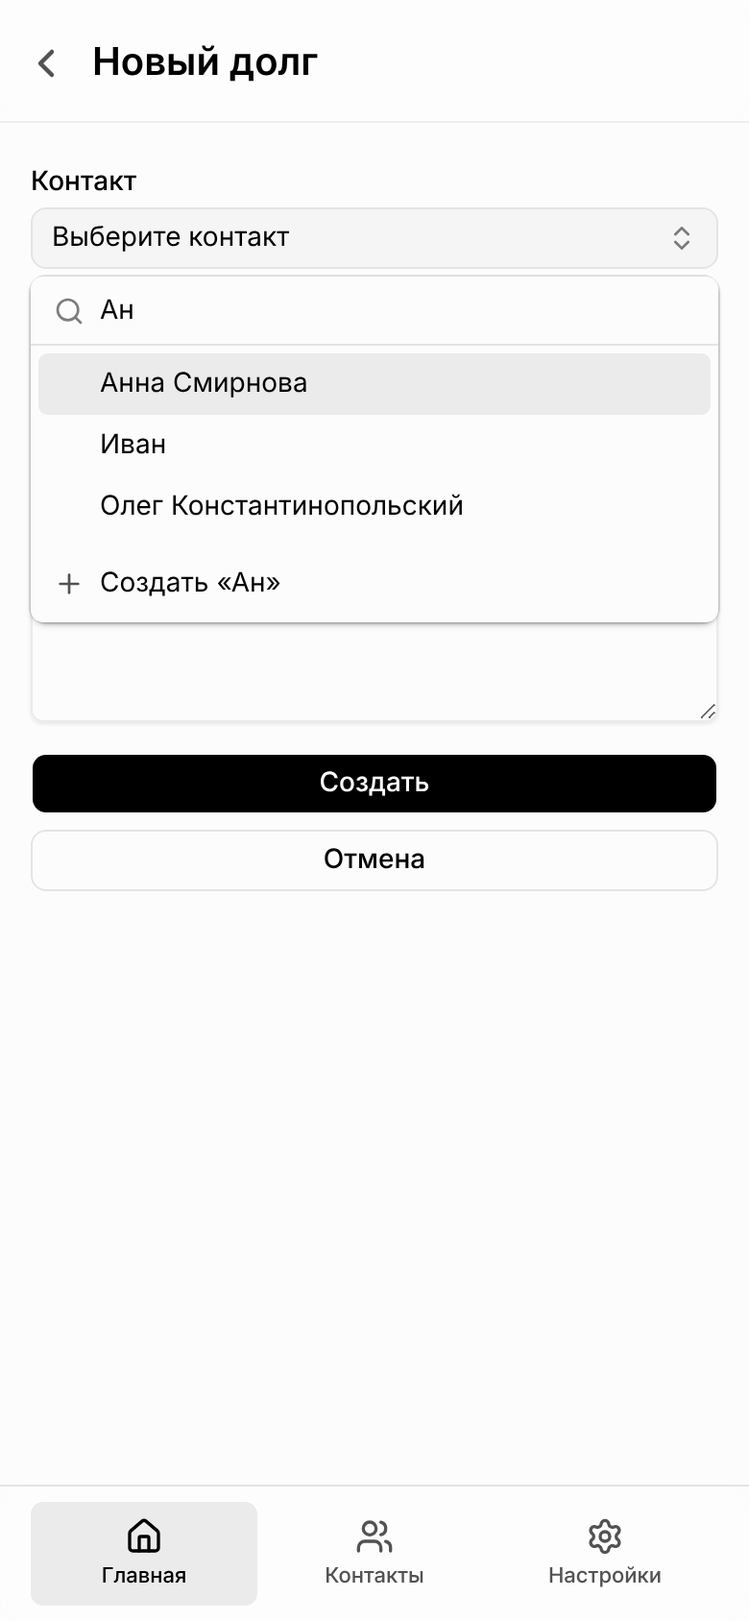
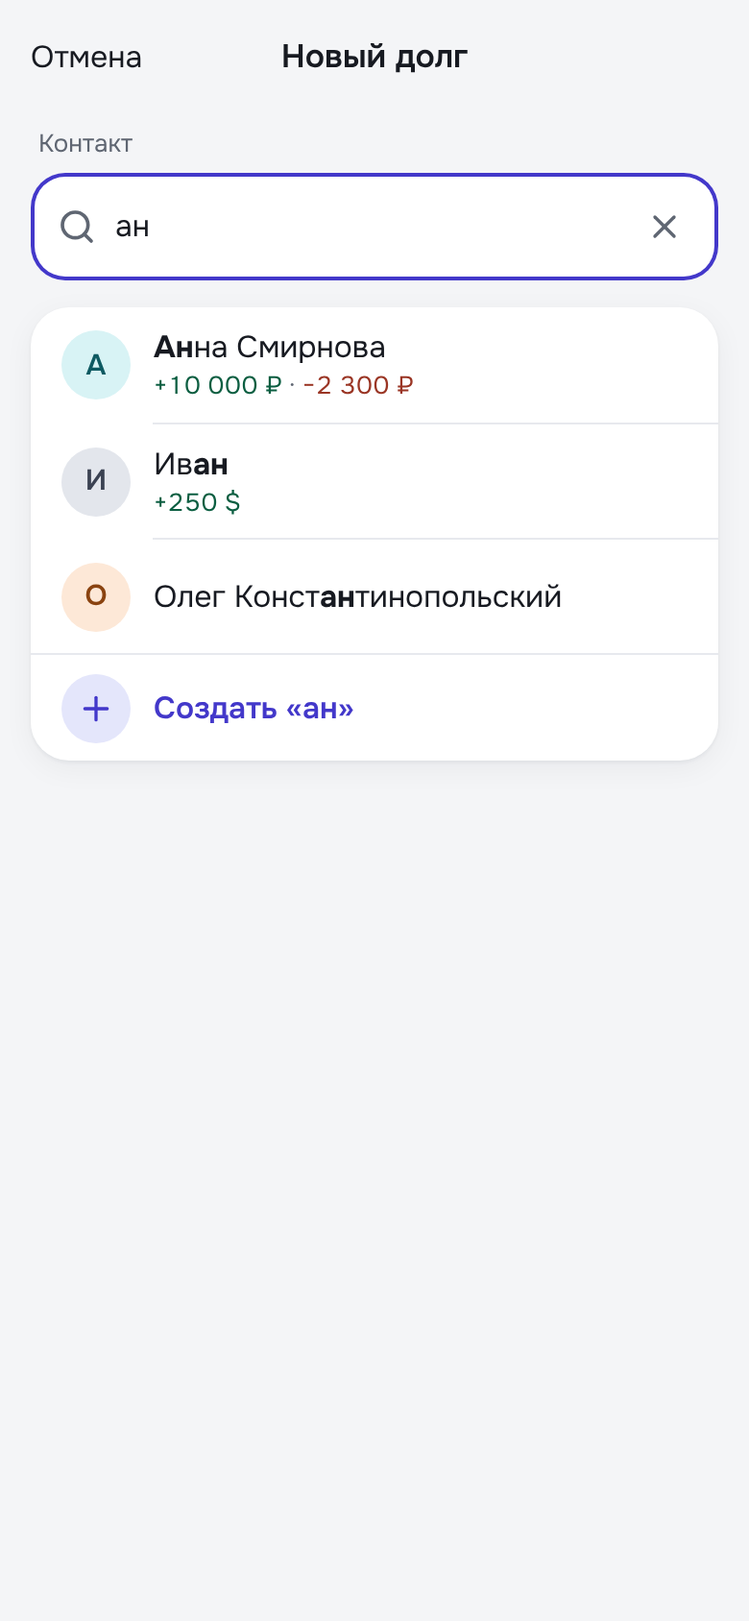
docs: design-system reference, architecture and changelog for the redesign
Adds docs/design-system.md (every token from src/index.css, typography,
radii, shadows, components by FSD layer, contrast pairs, rules), updates
architecture.md and the brief (mockup link, status), moves the old
screenshots to docs/assets/pre-redesign-ui and re-shoots current-ui at
390 and 1440 px in both themes. Ticks the remaining redesign-ui tasks.

Claude-Session: https://claude.ai/code/session_01KNaCuzAVXHxoQjRgPx6VR8

diff --git a/docs/design-system.md b/docs/design-system.md
@@ -1,0 +1,155 @@
+# Дизайн-система «Долги»
+
+Источник — холст «Долги — макеты» (артборд «Дизайн-система»): https://claude.ai/artifact/WvrA2LcghqTn3ZJMCCQM8b. Бриф для дизайнера — [`design-brief.md`](design-brief.md), поведение — `openspec/specs/design-system/spec.md`.
+
+Все значения живут в [`src/index.css`](../src/index.css): переменные в `:root` (светлая тема) и `.dark` (тёмная), маппинг в утилиты Tailwind — в `@theme inline`. В компонентах используются только утилиты по токенам (`bg-owed-to-me-muted`, `rounded-card`, `shadow-card`), а не hex-значения.
+
+## Цвета
+
+Роли shadcn (`background`, `card`, `primary`…) сохранены, к ним добавлены продуктовые роли:
+
+- `owed-to-me*` — «Мне должны» (зелёный), `i-owe*` — «Я должен» (терракотовый). Суффиксы: без суффикса — графика и иконки, `-muted` — подложка, `-strong` — текст на подложке, `-foreground` — текст на заливке;
+- `accent*` — индиго для создания («+», «Создать», ссылки, кольцо фокуса);
+- `destructive*` — необратимые действия и ошибки;
+- `success*`, `warning*` — статусы («Погашен», «Нет курса»);
+- `nav-glass*` — полупрозрачное нижнее меню, `scrim` — затемнение под шторками;
+- `avatar-N` / `avatar-N-foreground` — 8 пар «фон / буква» аватаров. Сохранённый цвет контакта (hex из старой палитры) переводится в номер пары функцией `avatarPaletteIndex` (`shared/config/contact-colors.ts`).
+
+| Токен | Светлая | Тёмная | Tailwind |
+|---|---|---|---|
+| `--background` | `#f4f5f7` | `#0f1115` | `bg-/text-/border-background` |
+| `--foreground` | `#171a21` | `#edeff3` | `bg-/text-/border-foreground` |
+| `--card` | `#ffffff` | `#191c22` | `bg-/text-/border-card` |
+| `--card-foreground` | `#171a21` | `#edeff3` | `bg-/text-/border-card-foreground` |
+| `--popover` | `#ffffff` | `#191c22` | `bg-/text-/border-popover` |
+| `--popover-foreground` | `#171a21` | `#edeff3` | `bg-/text-/border-popover-foreground` |
+| `--primary` | `#171a21` | `#edeff3` | `bg-/text-/border-primary` |
+| `--primary-foreground` | `#ffffff` | `#0f1115` | `bg-/text-/border-primary-foreground` |
+| `--secondary` | `#f4f5f7` | `#262a32` | `bg-/text-/border-secondary` |
+| `--secondary-foreground` | `#171a21` | `#edeff3` | `bg-/text-/border-secondary-foreground` |
+| `--muted` | `#e7e9ee` | `#262a32` | `bg-/text-/border-muted` |
+| `--muted-foreground` | `#5f6672` | `#9aa1ad` | `bg-/text-/border-muted-foreground` |
+| `--accent` | `#4338ca` | `#8b93ff` | `bg-/text-/border-accent` |
+| `--accent-foreground` | `#ffffff` | `#0f1115` | `bg-/text-/border-accent-foreground` |
+| `--destructive` | `#b3261e` | `#f2786d` | `bg-/text-/border-destructive` |
+| `--destructive-foreground` | `#ffffff` | `#0f1115` | `bg-/text-/border-destructive-foreground` |
+| `--destructive-muted` | `#fce8e6` | `#3b1a17` | `bg-/text-/border-destructive-muted` |
+| `--destructive-strong` | `#8c1d18` | `#ffb4ab` | `bg-/text-/border-destructive-strong` |
+| `--border` | `#e7e9ee` | `#2a2e37` | `bg-/text-/border-border` |
+| `--input` | `#e7e9ee` | `#2a2e37` | `bg-/text-/border-input` |
+| `--ring` | `#4338ca` | `#8b93ff` | `bg-/text-/border-ring` |
+| `--owed-to-me` | `#0f7a55` | `#4fd1a0` | `bg-/text-/border-owed-to-me` |
+| `--owed-to-me-foreground` | `#ffffff` | `#0f1115` | `bg-/text-/border-owed-to-me-foreground` |
+| `--owed-to-me-muted` | `#ddf3ea` | `#12302a` | `bg-/text-/border-owed-to-me-muted` |
+| `--owed-to-me-strong` | `#0b5e41` | `#7be3bc` | `bg-/text-/border-owed-to-me-strong` |
+| `--i-owe` | `#b4432f` | `#ff8a70` | `bg-/text-/border-i-owe` |
+| `--i-owe-foreground` | `#ffffff` | `#0f1115` | `bg-/text-/border-i-owe-foreground` |
+| `--i-owe-muted` | `#f9e5df` | `#3a1e18` | `bg-/text-/border-i-owe-muted` |
+| `--i-owe-strong` | `#9a3524` | `#ffa894` | `bg-/text-/border-i-owe-strong` |
+| `--success` | `#1a7f37` | `#57d27f` | `bg-/text-/border-success` |
+| `--success-muted` | `#ddf4e4` | `#13301c` | `bg-/text-/border-success-muted` |
+| `--warning` | `#8a5a00` | `#f2b84b` | `bg-/text-/border-warning` |
+| `--warning-muted` | `#fcefd2` | `#3a2c0e` | `bg-/text-/border-warning-muted` |
+| `--accent-muted` | `#e4e6fb` | `#252845` | `bg-/text-/border-accent-muted` |
+| `--accent-strong` | `#2a2f7a` | `#b8bdfa` | `bg-/text-/border-accent-strong` |
+| `--nav-glass` | `rgba(255, 255, 255, 0.72)` | `rgba(30, 33, 40, 0.72)` | `bg-/text-/border-nav-glass` |
+| `--nav-glass-active` | `rgba(23, 26, 33, 0.07)` | `rgba(255, 255, 255, 0.1)` | `bg-/text-/border-nav-glass-active` |
+| `--scrim` | `rgba(15, 17, 21, 0.4)` | `rgba(0, 0, 0, 0.5)` | `bg-/text-/border-scrim` |
+| `--avatar-1` | `#e4e6fb` | `#252845` | `bg-/text-/border-avatar-1` |
+| `--avatar-1-foreground` | `#3a3f9e` | `#b8bdfa` | `bg-/text-/border-avatar-1-foreground` |
+| `--avatar-2` | `#fde8d7` | `#3d2818` | `bg-/text-/border-avatar-2` |
+| `--avatar-2-foreground` | `#8a4310` | `#f8c8a0` | `bg-/text-/border-avatar-2-foreground` |
+| `--avatar-3` | `#e1f0fa` | `#16303f` | `bg-/text-/border-avatar-3` |
+| `--avatar-3-foreground` | `#1b5880` | `#a6d4f2` | `bg-/text-/border-avatar-3-foreground` |
+| `--avatar-4` | `#f1e3f5` | `#352040` | `bg-/text-/border-avatar-4` |
+| `--avatar-4-foreground` | `#7a2e86` | `#e2b5ea` | `bg-/text-/border-avatar-4-foreground` |
+| `--avatar-5` | `#fff1cc` | `#3a2e0c` | `bg-/text-/border-avatar-5` |
+| `--avatar-5-foreground` | `#7a5300` | `#f5d68a` | `bg-/text-/border-avatar-5-foreground` |
+| `--avatar-6` | `#e3e6ec` | `#2a2e37` | `bg-/text-/border-avatar-6` |
+| `--avatar-6-foreground` | `#3b4252` | `#c9ced8` | `bg-/text-/border-avatar-6-foreground` |
+| `--avatar-7` | `#d8f3f5` | `#12343a` | `bg-/text-/border-avatar-7` |
+| `--avatar-7-foreground` | `#0e5a62` | `#9fe0e8` | `bg-/text-/border-avatar-7-foreground` |
+| `--avatar-8` | `#fce4ef` | `#3d1a2c` | `bg-/text-/border-avatar-8` |
+| `--avatar-8-foreground` | `#8a1f55` | `#f4b3d2` | `bg-/text-/border-avatar-8-foreground` |
+
+## Типографика
+
+Шрифт — Onest Variable (`@fontsource-variable/onest`), у `body` включены табличные цифры (`tabular-nums`). Шкала — собственные утилиты `@utility` в `src/index.css`; их знает `tailwind-merge` (`shared/lib/utils.ts`), поэтому `cn()` не выбрасывает их рядом с цветом текста.
+
+| Утилита | Размер / интерлиньяж | Насыщенность, трекинг | Где |
+|---|---|---|---|
+| `text-amount-display` | 36 / 44 | 700, −3% | итоги на главной |
+| `text-amount-xl` | 34 / 40 | 700, −3% | сводка контакта, поле погашения |
+| `text-amount-l` | 22 / 28 | 700, −2% | остаток на карточке долга |
+| `text-title` | 28 / 34 | 700, −2,5% | заголовок экрана (мобильный) |
+| `text-title-desktop` | 32 / 40 | 700, −2,5% | заголовок экрана (от 1024 px) |
+| `text-heading` | 17 / 24 | 600 | заголовки секций и шапки «Новый долг» |
+| `text-body` | 16 / 22 | — | основной текст, поля ввода |
+| `text-body-s` | 14 / 20 | — | вторичный текст |
+| `text-caption` | 13 / 18 | — | подписи, подсказки, ошибки под полями |
+| `text-label-nav` | 11 / 14 | — | подписи нижнего меню |
+
+Поле суммы в форме долга — 44 / 52, 700, −3% (`AmountField`).
+
+## Радиусы
+
+| Токен | Значение | Tailwind |
+|---|---|---|
+| `--radius` | `14px` | база для `rounded-sm…2xl` |
+| `--radius-chip` | `8px` | `rounded-chip` |
+| `--radius-field` | `14px` | `rounded-field` |
+| `--radius-control` | `18px` | `rounded-control` |
+| `--radius-card` | `22px` | `rounded-card` |
+| `--radius-sheet` | `28px` | `rounded-sheet` |
+
+Кнопки и чипы фильтров — пилюли (`rounded-full`).
+
+## Тени
+
+| Токен | Светлая | Тёмная | Tailwind |
+|---|---|---|---|
+| `--shadow-card` | `0 1px 2px rgba(23, 26, 33, 0.06), 0 4px 16px rgba(23, 26, 33, 0.05)` | `none` | `shadow-card` |
+| `--shadow-raised` | `0 12px 40px rgba(23, 26, 33, 0.18)` | `0 12px 40px rgba(0, 0, 0, 0.5)` | `shadow-raised` |
+| `--shadow-nav` | `inset 0 0 0 1px rgba(23, 26, 33, 0.08), 0 8px 24px rgba(23, 26, 33, 0.1)` | `inset 0 0 0 1px rgba(255, 255, 255, 0.08), 0 8px 24px rgba(0, 0, 0, 0.4)` | `shadow-nav` |
+
+В тёмной теме карточки без тени: поверхности различаются цветом (`card` светлее `background`).
+
+## Компоненты
+
+| Компонент | Слой | Назначение |
+|---|---|---|
+| `Button` | `components/ui/button` | Пилюля: `default` (тёмная основная), `accent` (создание), `secondary`/`outline`, `destructive`, `destructive-soft`, `destructive-ghost`, `ghost`, `link`; размеры `sm` 36, `default` 44, `lg` 52, `icon`, `icon-sm` |
+| `Dialog`, `AlertDialog` | `components/ui` | До 1024 px — шторка снизу (радиус `sheet`, ручка), шире — диалог по центру; классы `modalContentClass` / `modalOverlayClass` |
+| `Input`, `Textarea`, `AmountInput` | `components/ui` | Поле 48 px, `rounded-field`, фон `secondary`, внутреннее кольцо фокуса; `AmountInput` — маска разрядов |
+| `Badge`, `SegmentedControl`, `Collapsible`, `Skeleton`, `Toaster` | `components/ui` | Бейджи статусов, переключатель темы, история долга, скелетоны, тосты над нижним меню |
+| `AmountField`, `CurrencyPicker` | `shared/ui` | Крупная сумма с кнопкой валюты; шторка выбора валюты |
+| `SearchField`, `HighlightMatch` | `shared/ui` | Поиск с «Очистить»; выделение совпадения жирным |
+| `FieldError`, `FormAlert` | `shared/ui/form-message` | Ошибка под полем; общая ошибка над кнопкой |
+| `EmptyState`, `CurrencyBreakdown`, `ConfirmActionModal` | `shared/ui` | Пустые состояния; «10 000 ₽ + 250 $»; подтверждения |
+| `PageHeader`, `PageHeaderBackLink`, `ScreenBody` | `shared/layout` | Заголовок экрана и слот баннера под ним; «назад»; тело экрана |
+| `AmountPill`, `DirectionIcon`, `DirectionChip`, `DirectionToggle`, `DebtStatusBadge` | `entities/debt/ui` | Кодирование направления «+» / «−» цветом и подписью; статус долга |
+| `ContactAvatar`, `ContactRow`, `ContactRowList` | `entities/debt/ui` | Аватар с буквой; строка контакта с плашками остатков |
+| `NetPositionLine`, `RatioBar` | `entities/debt/ui` | Чистая позиция |
+| `ContactPicker` | `features/select-contact` | Выбор контакта в форме долга |
+| `DisplayCurrencySetting`, `ExchangeRateStatusRow` | `features/set-display-currency`, `features/refresh-exchange-rates` | Строки настроек «Валюта итогов» и «Курс валют» |
+| `BottomNav`, `CreateFab`, `SideNav`, `StorageErrorBanner` | `app/layout` | Каркас: стеклянное нижнее меню, «+», боковое меню, баннер ошибки хранилища |
+
+## Контраст
+
+`npm run tokens:contrast` (`scripts/check-contrast.mjs`, шаг CI) проверяет пары токенов в обеих темах по WCAG 2.1 AA: 4,5:1 для текста, 3:1 для крупного текста и графики. Полупрозрачные цвета смешиваются с фоном пары.
+
+- Текст: `foreground` и `muted-foreground` на `background` / `card` / `nav-glass`; `*-foreground` на заливках `primary`, `secondary`, `accent`, `destructive`, `owed-to-me`, `i-owe`; `*-strong` на `*-muted` для `accent`, `destructive`, `owed-to-me`, `i-owe`; `foreground` на `owed-to-me-muted` и `i-owe-muted` (итоги на главной); `warning` на `warning-muted`; `destructive` на `card`; `avatar-N-foreground` на `avatar-N`.
+- Графика (3:1): `accent`, `owed-to-me`, `i-owe`, `success` на `card`.
+
+Новая пара цветов, которой показывается текст, добавляется в `PAIRS` скрипта.
+
+## Правила
+
+- **Направление долга** всегда кодируется тремя способами: знак «+» / «−», цвет роли и подпись «Мне должны» / «Я должен». Цвет не используется один.
+- **Суммы** форматируются `formatMoney` (`shared/lib/format-amount`): разряды через пробел, неразрывный пробел перед символом валюты («10 000 ₽»). Цифры табличные.
+- **Даты** — `shared/lib/format-date`: «12 сен» (в другом году «12 сен 2025»), «15 октября», «15 октября в 12:40», «12 октября 2026, 18:05».
+- **Зона касания** любого интерактивного элемента — не меньше 44×44 px: у кнопок встроена утилита `touch-target`, у мелких элементов — `touch-target` или явный размер 44.
+- **Шторка или диалог:** формы и подтверждения открываются в `Dialog` / `AlertDialog` — на мобильном это шторка снизу с ручкой, на десктопе диалог по центру. Кнопки внизу шторки: вторичная «Отмена» слева, основное действие справа (вдвое шире).
+- **Поверхности без обводок:** карточки отделяются тенью `shadow-card` (в тёмной теме — цветом), разделители внутри списков — 1 px `border` с отступом от аватара.
+- **Фокус:** кольцо `ring` 2 px с отступом 2 px у кнопок, внутреннее кольцо у полей. Ошибка поля — внутреннее кольцо `destructive` и `FieldError` под полем (связь через `aria-describedby`).
+- **Тёмная тема** включается классом `.dark` на `<html>`: компоненты не используют `dark:` для цветов, если хватает токенов.

diff --git a/docs/architecture.md b/docs/architecture.md
@@ -1,22 +1,22 @@
 # Архитектура
 
-Справочник по устройству кода. Поведение продукта (что система должна делать) описано в [`openspec/specs/`](../openspec/specs); здесь — как это реализовано. Термины и модель данных — в [domain.md](./domain.md), правила кода — в [coding-standards.md](./coding-standards.md).
+Справочник по устройству кода. Поведение продукта (что система должна делать) описано в [`openspec/specs/`](../openspec/specs); здесь — как это реализовано. Термины и модель данных — в [domain.md](./domain.md), правила кода — в [coding-standards.md](./coding-standards.md), токены и компоненты интерфейса — в [design-system.md](./design-system.md).
 
 ## Стек
 
-React 19, Vite 8, TypeScript, Zustand, react-router-dom, react-i18next, Tailwind CSS 4, shadcn/ui (Radix), `@ebay/nice-modal-react`, IndexedDB через `idb`, PWA (`vite-plugin-pwa`), date-fns, Sonner (toasts). Бэкенда нет.
+React 19, Vite 8, TypeScript, Zustand, react-router-dom, react-i18next, Tailwind CSS 4 (токены дизайн-системы в `src/index.css`, шрифт Onest), shadcn/ui (Radix), `@ebay/nice-modal-react`, IndexedDB через `idb`, PWA (`vite-plugin-pwa`), date-fns, Sonner (toasts). Бэкенда нет.
 
 ## Feature-Sliced Design (привязка к репозиторию)
 
 | Слой | Папка | Роль |
 |------|--------|------|
-| App | `src/app/` | Провайдеры (i18n, NiceModal, Tooltip, гидрация стора, Toaster), роутинг (`AppRoutes`, lazy-страницы + `route-fallbacks`), каркас (`AppShell`, `AppNavLink`, `useActiveNavSection`, `StorageErrorBanner`), `RouteErrorBoundary` |
-| Pages | `src/pages/` | `home` (`/`), `create-debt` (`/new`), `contacts` (`/contacts`), `contact-detail` (`/contacts/:contactId`), `settings` (`/settings`) |
+| App | `src/app/` | Провайдеры (i18n, NiceModal, Tooltip, гидрация стора, Toaster), роутинг (`AppRoutes`, lazy-страницы + `route-fallbacks` со скелетонами), каркас `app/layout` (`AppShell`, `BottomNav`, `CreateFab`, `SideNav`, `StorageErrorBanner`, `useShellMode` / `useSideNavSection`), `RouteErrorBoundary` |
+| Pages | `src/pages/` | `home` (`/`), `create-debt` (`/new`), `contacts` (`/contacts`, раскладка «список + карточка» с `Outlet`), `contact-detail` (`/contacts/:contactId`), `settings` (`/settings`) |
 | Widgets | `src/widgets/` | `home-screen`, `contacts-screen`, `contact-detail`, `settings-screen` |
-| Features | `src/features/` | `select-contact`, `create-debt`, `edit-debt`, `add-repayment`, `set-display-currency`, `refresh-exchange-rates`, `pwa-app-update` |
-| Entities | `src/entities/` | `debt`: типы, Zustand-стор `useDebtStore`, хук `useDebtOperations`, агрегаты `computeDebtBalance` / `computeContactSummary` / `computeGlobalTotals`, UI `ContactAvatar`, `ContactListItem` |
-| Shared | `src/shared/` | `lib/` (storage, exchange-rate, theme, currency-preference, format-amount, round-amount, id, i18n, first-grapheme), `config/` (currencies, contact-colors), `i18n/` (`common`), `layout/` (`PageHeader`, `PageHeaderBackLink`, `ScreenBody`), `ui/modals/` (`ConfirmActionModal`) |
-| UI-kit | `src/components/ui/` | shadcn без бизнес-логики; добавлены вручную: `dialog`, `command`, `textarea`, `amount-input` (маска суммы) |
+| Features | `src/features/` | `select-contact` (`ContactPicker`), `create-debt`, `edit-debt`, `add-repayment`, `set-display-currency`, `refresh-exchange-rates`, `export-backup`, `import-backup`, `pwa-app-update` |
+| Entities | `src/entities/` | `debt`: типы, Zustand-стор `useDebtStore`, хук `useDebtOperations`, агрегаты `computeDebtBalance` / `computeContactSummary` / `computeContactTotals` / `computeGlobalTotals` / `computeNetPosition` / `countContactsByDirection`, UI `ContactAvatar`, `ContactRow`, `AmountPill`, `DirectionChip`, `DirectionToggle`, `DebtStatusBadge`, `NetPositionLine` |
+| Shared | `src/shared/` | `lib/` (storage, exchange-rate, theme, currency-preference, format-amount, format-date, round-amount, id, i18n, first-grapheme, use-online-status, use-keyboard-inset), `config/` (currencies, contact-colors), `i18n/` (`common`), `layout/` (`PageHeader`, `PageHeaderBackLink`, `ScreenBody`), `ui/` (`AmountField`, `CurrencyPicker`, `SearchField`, `HighlightMatch`, `EmptyState`, `form-message`, `money`, `modals/ConfirmActionModal`) |
+| UI-kit | `src/components/ui/` | shadcn без бизнес-логики, перестроенный под дизайн-систему (кнопки-пилюли, `dialog` / `alert-dialog` как шторка на мобильном); добавлены вручную: `textarea`, `amount-input` (маска суммы), `badge`, `segmented-control` |
 
 Импорт — только сверху вниз: `app → pages → widgets → features → entities → shared`; `app` и `shared` могут импортировать друг друга. Публичный API слайса — только `index.ts`.
 
@@ -26,16 +26,28 @@ React 19, Vite 8, TypeScript, Zustand, react-router-dom, react-i18next, Tailwind
 |------|----------|----------|
 | `/` | `pages/home` → `widgets/home-screen` | eager |
 | `/new[?contactId=]` | `pages/create-debt` → `features/create-debt` (`CreateDebtForm`) | lazy |
-| `/contacts` | `pages/contacts` → `widgets/contacts-screen` | lazy |
-| `/contacts/:contactId` | `pages/contact-detail` → `widgets/contact-detail` | lazy |
+| `/contacts` | `pages/contacts` (index → `ContactsIndexPage`) → `widgets/contacts-screen` | lazy |
+| `/contacts/:contactId` | вложен в `/contacts`: `pages/contact-detail` → `widgets/contact-detail` | lazy |
 | `/settings` | `pages/settings` → `widgets/settings-screen` | lazy |
 | `*` | редирект на `/` | — |
 
-Откуда открыта карточка контакта, передаётся через `location.state.from` (`"home" | "contacts"`, проп `linkState` у `ContactListItem`); от него зависят активная вкладка (`useActiveNavSection`) и цель кнопки «назад».
+Откуда открыта карточка контакта, передаётся через `location.state.from` (`"home" | "contacts"`, проп `linkState` у `ContactRow`); от него зависят активный раздел бокового меню (`useSideNavSection`) и цель кнопки «назад».
+
+## Каркас и режимы
+
+`AppShell` выбирает режим по пути (`useShellMode`, через `matchPath`):
+
+- `section` — `/`, `/contacts`, `/settings`: на мобильном плавающее нижнее меню `BottomNav` и круглая кнопка «+» (`CreateFab`, ведёт на `/new`);
+- `fullscreen` — `/new` и `/contacts/:id` на мобильном: без нижнего меню, со своей шапкой.
+
+От 1024 px всегда показывается боковое меню `SideNav` и «+» в правом нижнем углу. Раскладка «список + карточка» на `/contacts` — CSS-сетка в `ContactsPage`: на мобильном видна только одна колонка (`max-lg:hidden`), на десктопе обе. Баннер ошибки хранилища каркас подставляет под заголовок любого экрана через контекст `PageHeaderAfterSlot`.
+
+Форма нового долга держит кнопку «Создать» над клавиатурой: `interactive-widget=resizes-content` в `index.html` (Chrome/Android сжимает layout) и отступ по `visualViewport` из `useKeyboardInset` (iOS Safari).
 
 ## Модальные окна
 
-- Утилитарная модалка подтверждения — `shared/ui/modals/ConfirmActionModal` (`AlertDialog`): удаление долга, импорт, сброс данных.
+- `Dialog` и `AlertDialog` на ширине меньше 1024 px — шторка снизу, шире — диалог по центру (только CSS, общие классы в `components/ui/dialog.tsx`).
+- Утилитарная модалка подтверждения — `shared/ui/modals/ConfirmActionModal` (`AlertDialog`): удаление долга, сброс данных. Подтверждение импорта со сводкой — `features/import-backup/ui/ImportBackupConfirm`.
 - Модалки с доменной логикой — в фичах: `features/edit-debt/ui/EditDebtDialog.tsx`, `features/add-repayment/ui/AddRepaymentDialog.tsx` (`NiceModal.create` + shadcn `Dialog`). Открываются хелперами `showEditDebtDialog` / `showAddRepaymentDialog`.
 - Создание долга — не модалка, а страница `/new`.
 - `components/ui/dialog.tsx`: `DialogContent` игнорирует «клик наружу», если координаты события внутри рамки диалога — обход бага Radix с вложенными слоями (`Select`/`Popover`), которые временно отключают `pointer-events` у диалога.
@@ -55,13 +67,15 @@ React 19, Vite 8, TypeScript, Zustand, react-router-dom, react-i18next, Tailwind
 ## Персистентность
 
 - **IndexedDB** (`src/shared/lib/storage/`, БД `debts`, версия 1): сторы `contacts`, `debts` (индекс `by-contactId`), `debtOperations` (индекс `by-debtId`), `meta` (одна запись: `schemaVersion` + `ratesCache`). Доступ — через интерфейс `StorageAdapter` (`contract.ts`), реализация `indexed-db-adapter.ts`. `deleteDebt` каскадно удаляет операции в одной транзакции. Миграций пока нет (`schemaVersion = 1`).
-- **localStorage** (не дублирует доменные данные): тема, валюта отображения; ключи — `shared/lib/client-storage-keys.ts`, сброс — `clear-client-storage.ts`.
+- **localStorage** (не дублирует доменные данные): тема, валюта итогов (меняется и в настройках, и нажатием на итог на главной; подписчики `useDisplayCurrency` узнают о смене через событие `app-display-currency-change`); ключи — `shared/lib/client-storage-keys.ts`, сброс — `clear-client-storage.ts`.
 - **sessionStorage**: флаг однократной автоперезагрузки при ошибке загрузки чанка (`RouteErrorBoundary`).
-- **Backup/restore:** `storage/backup.ts` — `createDebtsBackup` / `parseDebtsBackup` / `restoreDebtsFromBackup`; формат `{ version: 1, exportedAt, meta, contacts, debts, debtOperations }`; восстановление = `wipeAppIndexedDatabase()` + запись всех записей + перезагрузка страницы.
+- **Backup/restore:** UI — `features/export-backup` (`useExportBackup`) и `features/import-backup` (`useImportBackup`: выбор файла → `parseDebtsBackup` → подтверждение), используются в настройках и на пустой главной; логика — `storage/backup.ts` — `createDebtsBackup` / `parseDebtsBackup` / `restoreDebtsFromBackup`; формат `{ version: 1, exportedAt, meta, contacts, debts, debtOperations }`; восстановление = `wipeAppIndexedDatabase()` + запись всех записей + перезагрузка страницы.
 
 ## Курс валют
 
 `src/shared/lib/exchange-rate/`: `fetchExchangeRates()` (база USD, источник `@fawazahmed0/currency-api` на jsDelivr, зеркало на `currency-api.pages.dev`), `convertAmount()`, `isRatesCacheStale()`. Кэш — `meta.ratesCache`.
+
+Строка статуса в настройках — `features/refresh-exchange-rates` (`ExchangeRateStatusRow`): «Обновлён <`fetchedAt`>», «Нет сети · курс от <дата курса>» (по `useOnlineStatus`), «Не удалось обновить» + «Повторить» (по `ratesFetchError`).
 
 ```
 hydrate() → refreshRatesIfStale() (fire-and-forget)
@@ -87,11 +101,12 @@ UI (pages/widgets)
 - **Offline-first:** всё, кроме обновления курса, работает без сети.
 - **Надёжность:** доменные данные только в IndexedDB; ошибки записи откатываются; ошибка курса не выглядит как сбой хранилища.
 - **Приватность:** данные не покидают устройство; запрос курса не содержит персональных данных.
-- **Точность денег:** суммы округляются до 2 знаков (`roundAmount`) на каждой операции; отображение — `formatAmount` (ru-RU).
+- **Точность денег:** суммы округляются до 2 знаков (`roundAmount`) на каждой операции; отображение — `formatMoney` / `formatMoneyBreakdown` (`shared/lib/format-amount`).
+- **Даты:** `shared/lib/format-date` — «12 сен», «15 октября», «15 октября в 12:40», «12 октября 2026, 18:05».
 - **Расширяемость под backend:** `StorageAdapter` — единая точка обмена данными; UUID совместимы с серверными. Выбор адаптера — в `app` (сейчас всегда IndexedDB).
 
 ## Качество и CI
 
-- `npm run check` (Biome), `npm run knip`, `npm run build` (`tsc -b` + Vite), `npm run spec:validate` (OpenSpec) — в `.github/workflows/ci.yml` на каждый push.
+- `npm run check` (Biome), `npm run knip`, `npm run spec:validate` (OpenSpec), `npm run tokens:contrast` (контраст пар токенов, `scripts/check-contrast.mjs`), `npm run build` (`tsc -b` + Vite) — в `.github/workflows/ci.yml` на каждый push.
 - Автотестов пока нет. Кандидаты на unit-тесты без React: `computeDebtBalance`, `computeContactSummary`, `computeGlobalTotals`, `convertAmount`, `parseDebtsBackup`, маска `AmountInput`; стор — с моком `StorageAdapter`.
 - Релизы: `scripts/release.sh` + `.github/workflows/release.yml` (тег → GitHub Release → GitHub Pages), см. README.

diff --git a/CHANGELOG.md b/CHANGELOG.md
@@ -8,16 +8,34 @@
 
 ### Added
 
+- Новая дизайн-система по макетам «Долги — макеты»: шрифт Onest с табличными цифрами, палитра светлой и тёмной темы, цвета «Мне должны» / «Я должен», кнопки-пилюли, шторки снизу на мобильном и диалоги по центру на десктопе. Контраст токенов проверяется в CI (`npm run tokens:contrast`).
+- Главная: чистая позиция — полоса соотношения и строка «Вы должны на X больше» / «Вам должны на X больше»; фильтр контактов «Все / Мне должны / Я должен» со счётчиками; онбординг на пустой главной с восстановлением из резервной копии; состояние «Нет курса» с кнопкой «Повторить».
+- Нажатие на сумму итога на главной переключает «Валюту итогов» на следующую (₽ → $ → € → ¥) и сохраняет выбор в настройках.
+- Контакты: поиск по имени, счётчик, статус «Всё погашено»; на десктопе — список и карточка контакта рядом.
+- Карточка контакта: сводка «Мне должны» / «Я должен» в валюте итогов с разбивкой по валютам, чистая позиция, секции «Открытые» и «Погашенные».
+- Новый долг: выбор контакта на весь экран с подсветкой совпадений и остатками, «Создать «…»» прямо из поиска, подсказка «Анна вернёт деньги вам» / «Анна ждёт деньги от вас», крупное поле суммы и шторка выбора валюты, кнопка «Создать» над клавиатурой.
+- Погашение: «Остаток X → останется Y» и кнопка «Погасить полностью».
+- Настройки: статус курса «Обновлён 15 октября в 12:40», «Нет сети · курс от 15 октября», «Не удалось обновить» с кнопкой «Повторить».
+- Плавающее нижнее меню и круглая кнопка «+» на мобильном, боковое меню с подписью «Данные хранятся только на этом устройстве» на десктопе.
+
 ### Changed
 
-- Стиль карточек (`Card`) во всём приложении приведён к дизайн-системе: мягкая тень (`shadow-card`) вместо тонкой рамки, увеличенный радиус скругления (`radius-card`).
-- Экран настроек сверен с макетами дизайн-системы: карточки «Курс валют», «Резервная копия» и «Данные и сброс» больше не разваливаются в колонку на мобильной ширине, кнопки уменьшены до `sm`, сокращены дублирующиеся формулировки («Курс валют обновлён» → «Обновлён», «Экспортировать/Импортировать JSON» → «Экспортировать/Импортировать»).
+- Направление долга везде обозначается знаком «+» / «−», цветом и подписью «Мне должны» / «Я должен».
+- Итоги на главной — одна сумма в валюте итогов; разбивка по валютам показывается, только когда нет курса.
+- Карточка долга: метка направления и дата, заметка заголовком, «Остаток X из Y» с полосой возврата, кнопки «Погасить» / «Изменить» / «Удалить», история под переключателем «История · N операций». Погашенные долги — компактными строками с бейджем «Погашен».
+- Карточка контакта и новый долг открываются на весь экран без нижнего меню.
+- Изменение долга после погашений: направление и сумма показаны только для чтения с пояснением, заметку можно менять.
+- Новые тексты подтверждений удаления долга, импорта («Загрузить резервную копию?» со сводкой) и сброса; «Экспортировать / Импортировать» → «Сохранить в файл» / «Загрузить из файла».
+- Настройки сгруппированы: «Тема» (переключатель), «Валюты», «Язык», «Резервная копия», «Сброс»; на десктопе — карточки с явными кнопками.
+- Даты в коротком виде: «12 сен», в другом году — «12 сен 2025».
+- Тосты — над нижним меню; экран ошибки получил кнопку «На главную»; скелетоны загрузки повторяют форму экранов.
+- Цвета аватаров заменены на палитру из 8 пар для светлой и тёмной темы (у существующих контактов цвет подбирается автоматически).
 
 ### Fixed
 
 - В окне погашения остаток долга показывается с разделителями разрядов («2 300 ₽» вместо «2300 ₽»).
-- Переключатель истории операций на карточке долга в раскрытом виде показывает «Скрыть историю».
 - Экран «Контакт не найден» больше не утверждает, что контакт удалён вместе с последним долгом (контакты не удаляются).
+- Сброс настроек интерфейса сразу возвращает валюту итогов к рублю без перезагрузки.
 
 ## [1.1.0] - 2026-07-02
 

diff --git a/openspec/changes/redesign-ui/tasks.md b/openspec/changes/redesign-ui/tasks.md
@@ -72,15 +72,15 @@
 
 ## 10. Документация
 
-- [ ] 10.1 Создать `docs/design-system.md`: ссылка на холст, таблица токенов (light/dark → утилита Tailwind), типографика, радиусы, тени, компоненты и их слои FSD, пары контраста, правила (зона касания, шторка или диалог); проверить, что каждый токен из `src/index.css` есть в таблице
-- [ ] 10.2 Обновить `docs/architecture.md` (каркас и режимы, маршруты `/contacts`, `shared/ui`, `features/*-backup`, `format-date`, `tokens:contrast`) и `docs/design-brief.md` (ссылка на макеты, статус «реализуется»); проверить ссылки
-- [ ] 10.3 Добавить в `CHANGELOG.md` → `[Unreleased]` новые экраны и поведение: чистая позиция, фильтр, валюта по нажатию, онбординг, поиск контактов, шторки, «Погасить полностью», статус курса, смена цветов аватаров; проверить по `proposal.md`
-- [ ] 10.4 Переснять `docs/assets/current-ui/` (390 и 1440 px, обе темы) и сверить с артбордами
+- [x] 10.1 Создать `docs/design-system.md`: ссылка на холст, таблица токенов (light/dark → утилита Tailwind), типографика, радиусы, тени, компоненты и их слои FSD, пары контраста, правила (зона касания, шторка или диалог); проверить, что каждый токен из `src/index.css` есть в таблице
+- [x] 10.2 Обновить `docs/architecture.md` (каркас и режимы, маршруты `/contacts`, `shared/ui`, `features/*-backup`, `format-date`, `tokens:contrast`) и `docs/design-brief.md` (ссылка на макеты, статус «реализуется»); проверить ссылки
+- [x] 10.3 Добавить в `CHANGELOG.md` → `[Unreleased]` новые экраны и поведение: чистая позиция, фильтр, валюта по нажатию, онбординг, поиск контактов, шторки, «Погасить полностью», статус курса, смена цветов аватаров; проверить по `proposal.md`
+- [x] 10.4 Переснять `docs/assets/current-ui/` (390 и 1440 px, обе темы) и сверить с артбордами
 
 ## 11. Итоговая проверка
 
-- [ ] 11.1 Прогнать `npm run check`, `npm run knip`, `npm run build`, `npm run spec:validate`, `npm run tokens:contrast` — все проходят
-- [ ] 11.2 Пройти основные сценарии на 390 и 1440 px в обеих темах (создание долга с новым контактом, частичное и полное погашение, изменение, удаление, экспорт и импорт, офлайн) и убедиться, что состояния совпадают с артбордами
+- [x] 11.1 Прогнать `npm run check`, `npm run knip`, `npm run build`, `npm run spec:validate`, `npm run tokens:contrast` — все проходят
+- [x] 11.2 Пройти основные сценарии на 390 и 1440 px в обеих темах (создание долга с новым контактом, частичное и полное погашение, изменение, удаление, экспорт и импорт, офлайн) и убедиться, что состояния совпадают с артбордами
 
 ## Workflow follow-up
 

diff --git a/docs/design-brief.md b/docs/design-brief.md
@@ -1,5 +1,7 @@
 # Бриф на редизайн «Долги»
 
+> **Статус:** макеты готовы — холст «Долги — макеты»: https://claude.ai/artifact/WvrA2LcghqTn3ZJMCCQM8b. Редизайн реализуется изменением OpenSpec `redesign-ui`; итоговые токены и компоненты — в [`design-system.md`](./design-system.md). Бриф сохранён как исходная постановка; скриншоты прототипа до редизайна — в [`assets/pre-redesign-ui/`](./assets/pre-redesign-ui).
+
 > Задача: с нуля спроектировать визуальный язык, дизайн-систему и макеты всех экранов приложения «Долги» с учётом функций, которые появятся в ближайшее время (в первую очередь — разделение счёта на несколько человек).
 > Текущий интерфейс — рабочий прототип на стандартных компонентах shadcn/ui. Его не нужно сохранять, он приведён только как справка о составе экранов и данных.
 
@@ -163,7 +165,7 @@
 
 ## 9. Текущий интерфейс (справочно)
 
-Скриншоты лежат в [`docs/assets/current-ui/`](./assets/current-ui):
+Скриншоты лежат в [`docs/assets/pre-redesign-ui/`](./assets/pre-redesign-ui):
 
 | Экран | Файл |
 |-------|------|
